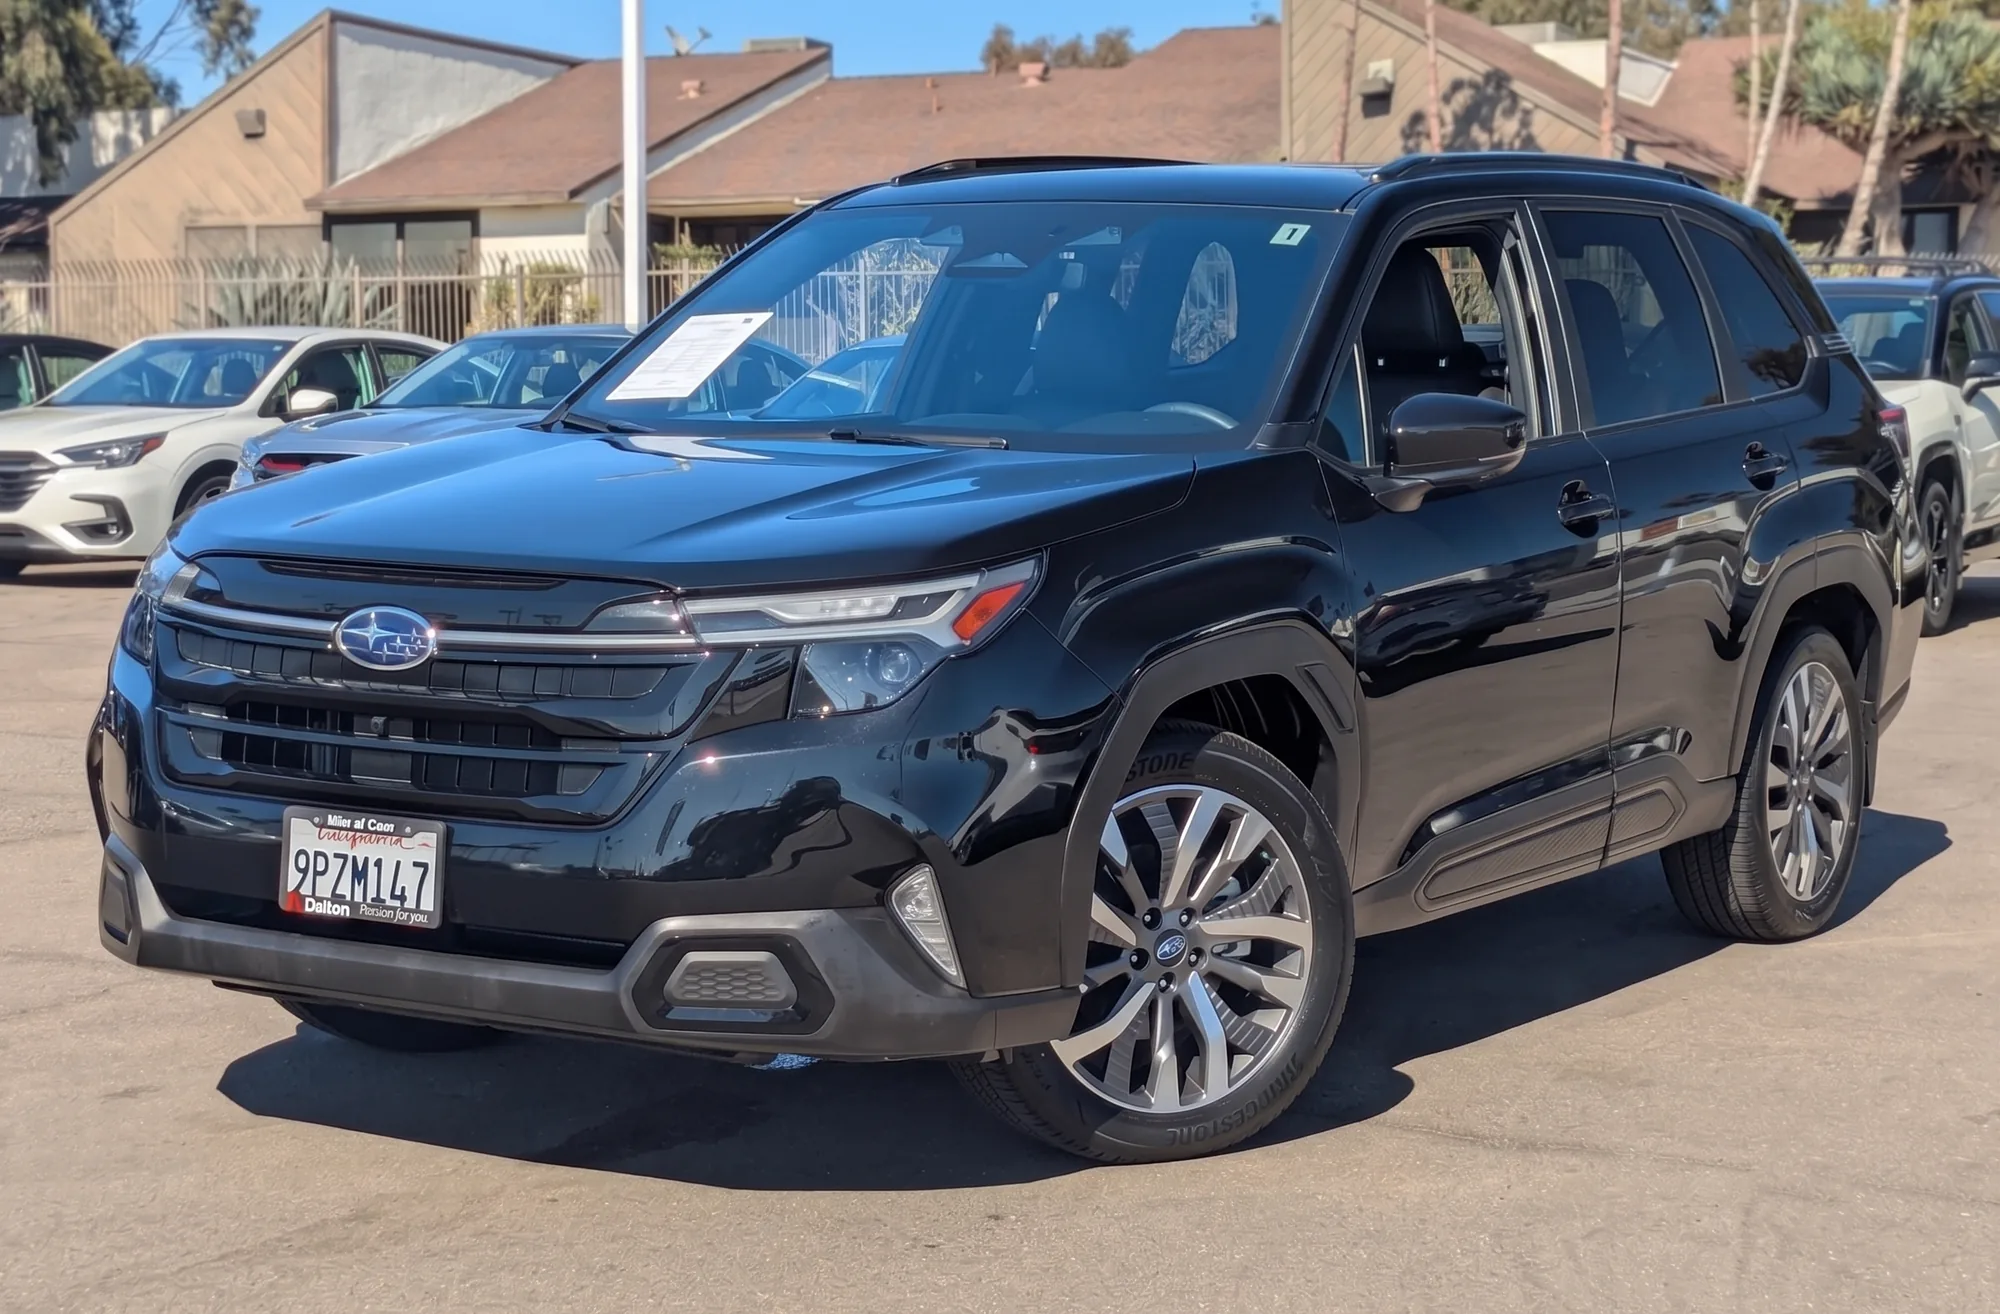
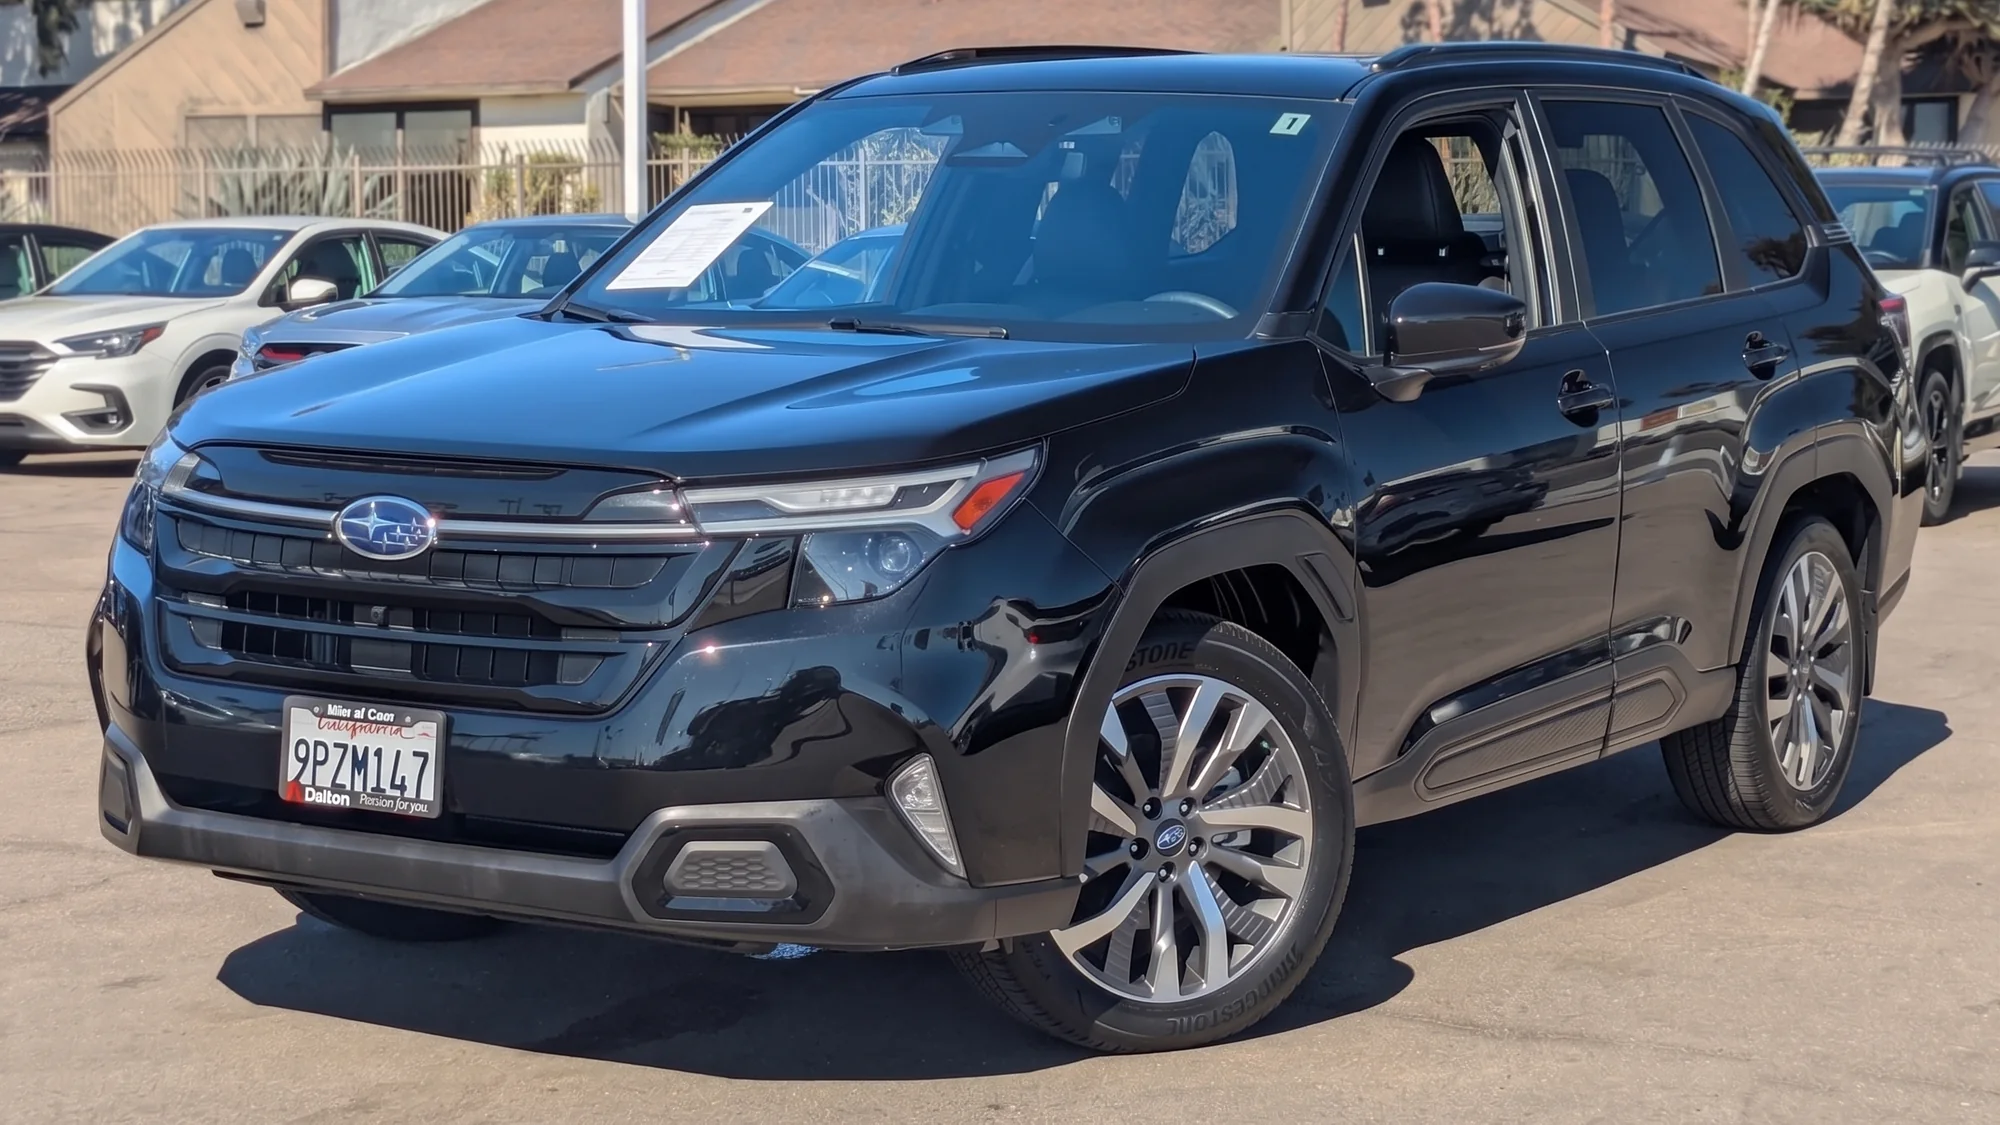
Reframe the hero so the whole car reads, and reorder the video and CTA band
HERO. The car was being cut off. Two causes, both fixed:

The desktop hero carried `aspect-ratio: 16/9` together with `max-height: 78vh`.
On a typical laptop the cap wins, which squeezes the box to roughly 2.2:1 --
far wider than 16:9 -- and `object-fit: cover` then crops the top and bottom
off the photo. Dropped the cap so the slot is a true 16:9.

Re-cropped the banner to match: 2390x1344 from the cleaned original (a true
16:9), delivered at 2000x1125. Measured the car's bounding box rather than
eyeballing it: x 139..2390, y 326..1563, so 1237px tall. 16:9 is the widest
crop that can hold it, with 107px of slack; 2:1 cannot fit it at all. Framed
at y0=272 for 54px above the roofline and 53px below the tyres. Image aspect
now equals slot aspect, so nothing re-crops and the car reads whole.

Updated og:image:height and the img height attribute to 1125.

LAYOUT. Moved the portrait lot clip out of the middle of section 04 and put it
directly below the "cross-county expedition" paragraph that closes section 03,
then moved the "Compare used and CPO Subarus" CTA band into the slot the video
vacated. New body order: section 03 text -> video -> section 04 heading and
lede -> Compare band -> model trims -> lot photos -> carousel.

Verified after the move: figure/aside/section/div/p tags all balanced, zero
broken internal anchors, JSON-LD still parses, and the phone and review count
are untouched.

Note the video is a 9:16 portrait clip rendered at max-width 340px and centred,
[…]

diff --git a/index.html b/index.html
@@ -16,7 +16,7 @@
 <meta property="og:site_name" content="Dalton Subaru National City" />
 <meta property="og:image" content="forester-black-lot.webp" />
 <meta property="og:image:width" content="2000" />
-<meta property="og:image:height" content="1314" />
+<meta property="og:image:height" content="1125" />
 <meta property="og:locale" content="en_US" />
 <meta property="article:published_time" content="2026-06-19T00:00:00-07:00" />
 <meta property="article:modified_time" content="2026-06-19T00:00:00-07:00" />
@@ -428,7 +428,6 @@
     border: none;
     border-radius: 0;
     aspect-ratio: 16 / 9;
-    max-height: 78vh;
     max-width: 100vw;
   }
   @media (max-width: 760px) {
@@ -1447,7 +1446,7 @@
          loading="eager"
          fetchpriority="high"
          width="2000"
-         height="1314" />
+         height="1125" />
     <span class="credit">DALTON SUBARU NATIONAL CITY · PRE-OWNED</span>
     <figcaption class="visually-hidden">Used and Subaru Certified Pre-Owned vehicles at Dalton Subaru National City on the National City Mile of Cars, serving San Diego County.</figcaption>
   </figure>
@@ -1557,13 +1556,7 @@
         <h3>One visit, not a weekend</h3>
         <p>Because every second-hand Subaru, used and CPO, is parked at 2829 National City Blvd, you're not chasing listings across the county. You compare them in front of you. That turns a multi-stop search into one focused afternoon.</p>
         <p>National City Boulevard is the heart of the Mile of Cars, minutes off I-5, so getting here from Chula Vista, downtown San Diego, or the South Bay is a short drive rather than a cross-county expedition.</p>
-      </section>
 
-      <!-- §04 Which Models Show Up Second-Hand -->
-      <section class="s" id="models">
-        <div class="section-num"><span>04</span><span>The lineup, used</span></div>
-        <h2 class="section-h">Which models show up <em>second-hand</em>.</h2>
-        <p class="lede">Subaru's lineup holds its value and its all-wheel-drive reputation, which is exactly why these models move through the second-hand lot. Standard symmetrical all-wheel drive comes on nearly every Subaru, part of why these cars resell well in a region where buyers want traction for desert runs to Anza-Borrego and mountain trips up to Julian.</p>
         <figure class="lot-clip" id="video-lot-secondhand">
           <div class="frame">
             <video src="dalton-lot-secondhand.mp4" poster="dalton-lot-secondhand-poster.jpg" controls playsinline
@@ -1571,6 +1564,32 @@
           </div>
           <figcaption>Shot on our own lot on the Mile of Cars. What is standing here changes weekly, so call before you drive over if you are chasing a specific model.</figcaption>
         </figure>
+      </section>
+
+      <!-- §04 Which Models Show Up Second-Hand -->
+      <section class="s" id="models">
+        <div class="section-num"><span>04</span><span>The lineup, used</span></div>
+        <h2 class="section-h">Which models show up <em>second-hand</em>.</h2>
+        <p class="lede">Subaru's lineup holds its value and its all-wheel-drive reputation, which is exactly why these models move through the second-hand lot. Standard symmetrical all-wheel drive comes on nearly every Subaru, part of why these cars resell well in a region where buyers want traction for desert runs to Anza-Borrego and mountain trips up to Julian.</p>
+
+      <aside class="cta-inline" aria-labelledby="cta-inline-heading">
+        <div class="eyebrow">Dalton Subaru National City</div>
+        <h3 id="cta-inline-heading">Compare used and CPO Subarus on the Mile of Cars.</h3>
+        <p class="lede">Come in and we'll line a budget-friendly used model up next to its CPO equivalent, pull both vehicle history reports, and run the real numbers side by side. Ask for that comparison when you reach out.</p>
+        <div class="actions">
+          <a class="btn primary" href="https://www.subarudalton.com/searchused.aspx">Browse second-hand inventory <span class="arrow">→</span></a>
+          <a class="btn ghost" href="https://www.subarudalton.com/contactus.aspx">Dalton Subaru Contact Portal</a>
+        </div>
+        <div class="meta">
+          <div class="meta-item"><span class="k">Address</span><span class="v">2829 National City Blvd, National City CA</span></div>
+          <div class="meta-item"><span class="k">Sales</span><span class="v"><a class="tel" href="tel:+16194045100">619-404-5100</a></span></div>
+          <div class="meta-item"><span class="k">Contact</span><span class="v"><a class="tel" href="https://www.subarudalton.com/contactus.aspx">Dalton Subaru Contact Portal</a></span></div>
+          <div class="meta-item"><span class="k">Reviews</span><span class="v">4.7 ★ · 4,398 Google</span></div>
+          <div class="meta-item"><span class="k">Hours</span><span class="v">Mon-Sat 8:30-8 · Sun 10-6</span></div>
+        </div>
+      </aside>
+
+
 
 
         <div class="trims">
@@ -1619,22 +1638,7 @@
       </section>
 
       <!-- Inline CTA -->
-      <aside class="cta-inline" aria-labelledby="cta-inline-heading">
-        <div class="eyebrow">Dalton Subaru National City</div>
-        <h3 id="cta-inline-heading">Compare used and CPO Subarus on the Mile of Cars.</h3>
-        <p class="lede">Come in and we'll line a budget-friendly used model up next to its CPO equivalent, pull both vehicle history reports, and run the real numbers side by side. Ask for that comparison when you reach out.</p>
-        <div class="actions">
-          <a class="btn primary" href="https://www.subarudalton.com/searchused.aspx">Browse second-hand inventory <span class="arrow">→</span></a>
-          <a class="btn ghost" href="https://www.subarudalton.com/contactus.aspx">Dalton Subaru Contact Portal</a>
-        </div>
-        <div class="meta">
-          <div class="meta-item"><span class="k">Address</span><span class="v">2829 National City Blvd, National City CA</span></div>
-          <div class="meta-item"><span class="k">Sales</span><span class="v"><a class="tel" href="tel:+16194045100">619-404-5100</a></span></div>
-          <div class="meta-item"><span class="k">Contact</span><span class="v"><a class="tel" href="https://www.subarudalton.com/contactus.aspx">Dalton Subaru Contact Portal</a></span></div>
-          <div class="meta-item"><span class="k">Reviews</span><span class="v">4.7 ★ · 4,398 Google</span></div>
-          <div class="meta-item"><span class="k">Hours</span><span class="v">Mon-Sat 8:30-8 · Sun 10-6</span></div>
-        </div>
-      </aside>
+
 
       <!-- §05 A Word on Mileage, Salt, and What We Actually Look For -->
       <section class="s" id="inspection">
